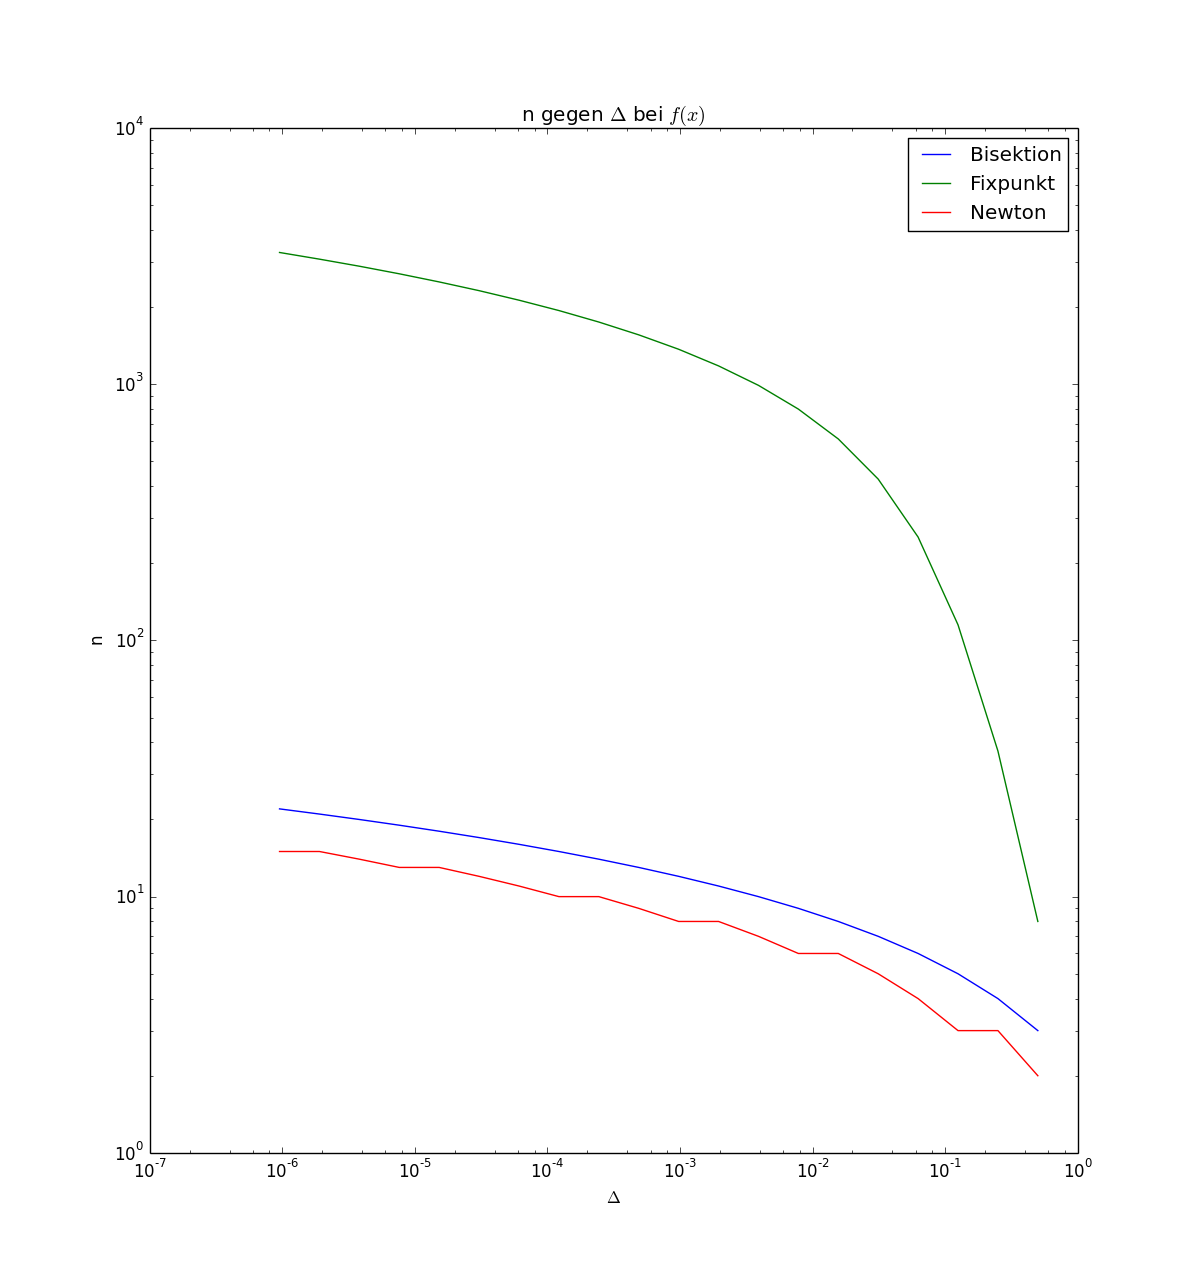
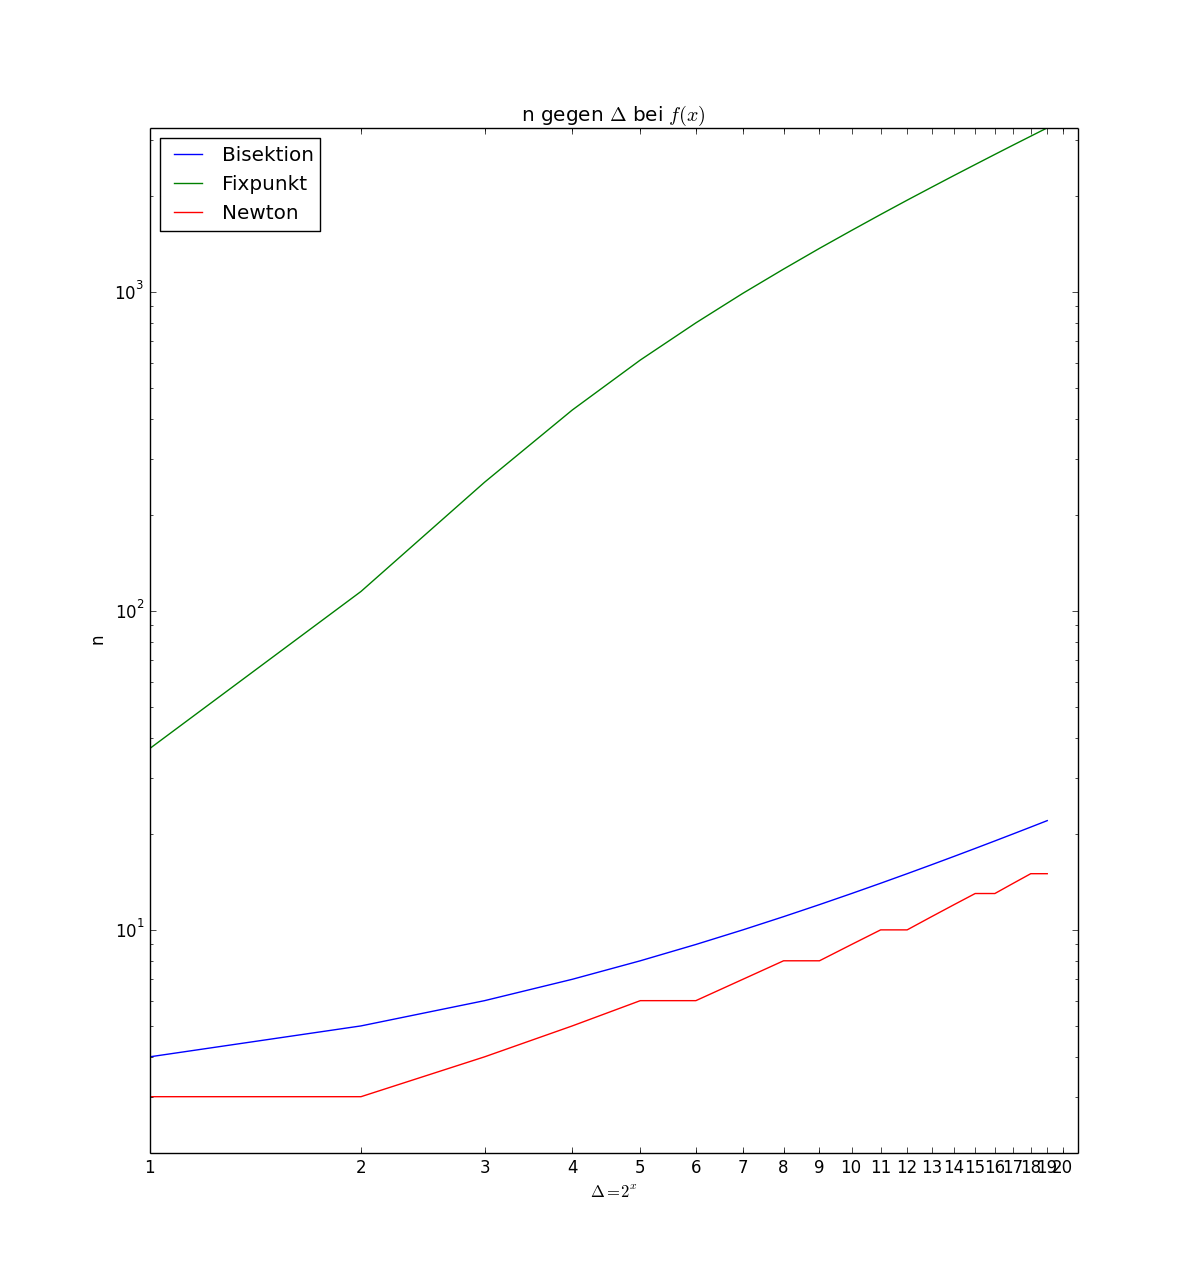
U2 fix the graphs to show increasing cost

diff --git a/u-2/u2_3.py b/u-2/u2_3.py
@@ -106,7 +106,8 @@ print("\tbisection (%g, %g) %g" % (a, b, n))
 print("\tfixed point iter %g, %d" % fixed_point_iteration(gi, 0.0, 0.00001))
 print("\tNewton iter %g, %d" % newton(g, 0.0, 0.00001))
 
-deltas = [2**-x for x in range(1, 21)]
+rng = range(1, 21)
+deltas = [2**-x for x in rng]
 
 for (fn, fni, t) in [(f, fi, u'$f(x)$'), (g, gi, u'$f(x)$')]:
     steps_bisection = [n for (_, n) in map(lambda d: bisection(fn, -1.0, 1.0, d), deltas)]
@@ -115,12 +116,20 @@ for (fn, fni, t) in [(f, fi, u'$f(x)$'), (g, gi, u'$f(x)$')]:
     steps_newton = [n for (_, n) in map(lambda d: newton(fn, 0.0, d), deltas)]
 
     plot.title(u'n gegen $\Delta$ bei %s' % t)
-    plot.loglog(deltas, steps_bisection)
-    plot.loglog(deltas, steps_fixed_point)
-    plot.loglog(deltas, steps_newton)
-   
+    plot.loglog(steps_bisection)
+    plot.loglog(steps_fixed_point)
+    plot.loglog(steps_newton)
+
+    # Don't show too much above the values
+    upper = max(
+        max(steps_bisection),
+        max(steps_fixed_point),
+        max(steps_newton))
+
+    plot.axis([0, 21, 0, upper])
+    plot.xticks(rng, rng)
     plot.ylabel(u'n')
-    plot.xlabel(u'$\Delta$')
-    plot.legend((u'Bisektion', u'Fixpunkt', u'Newton'))
+    plot.xlabel(u'$\Delta = 2^x$')
+    plot.legend((u'Bisektion', u'Fixpunkt', u'Newton'), loc='upper left')
 
     plot.show()

diff --git a/u-2/u2.md b/u-2/u2.md
@@ -13,8 +13,11 @@ Wir wissen, dass $\cos^2(x) + \sin^2(x) = 1$, also $\cos^2(x) = 1 - \sin^2(x)$. 
 
 ## 2.3.2
 
-![$n$ gegen $\Delta$ bei $f(x)$](u2_3_f.png)\
-![$g(x)$](u2_3_g.png)
+Abbildingen 1 und 2 zeigen die benötigte Schritte bei bestimmen Genauigkeiten.
+
+![$n$ gegen $\Delta$ bei $f(x)$](u2_3_f.png)
+
+![$n$ gegen $\Delta$ bei $g(x)$](u2_3_g.png)
 
 ## 2.3.3
 
